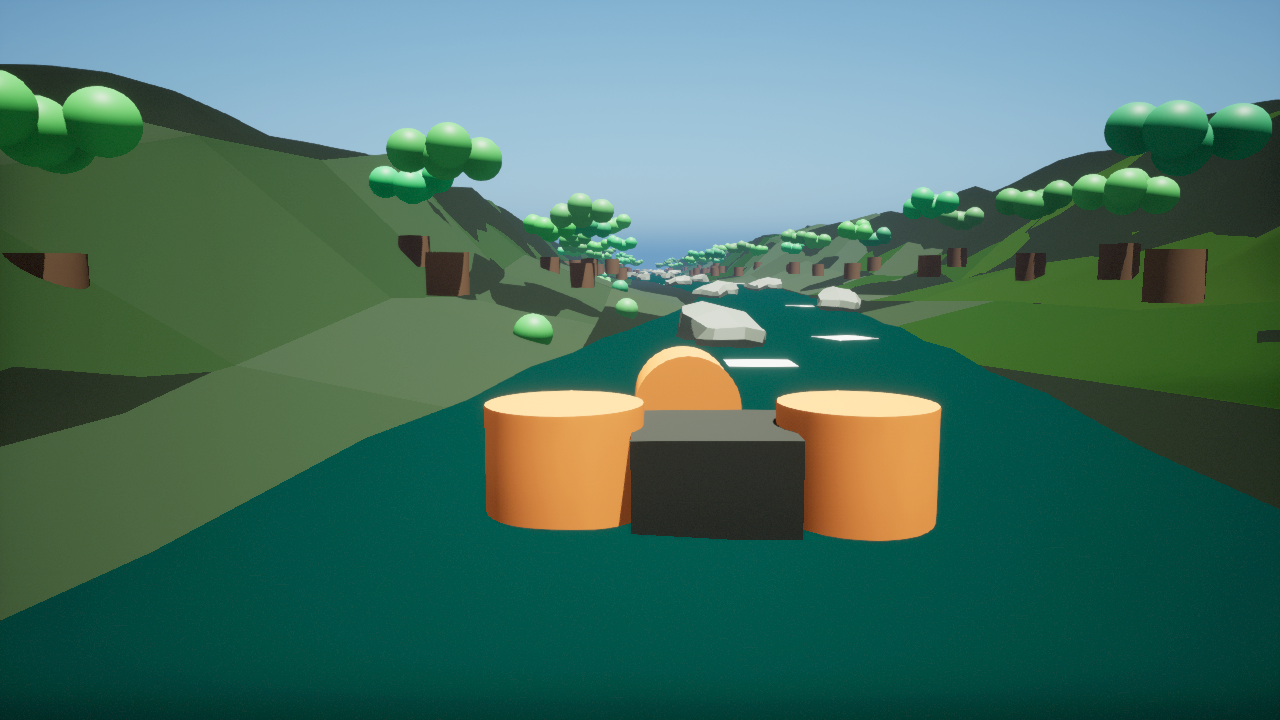
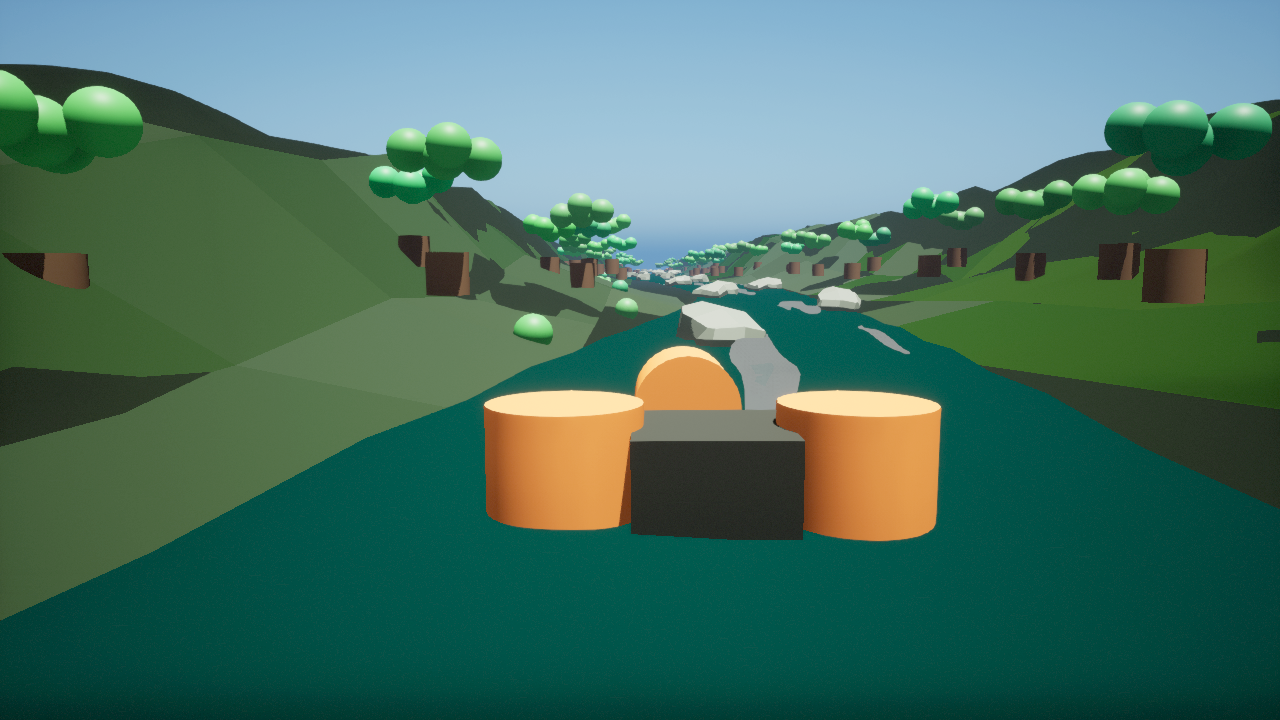
Add procedural water detail ribbons

Changed region(s): [[0.5625, 0.3972, 0.7188, 0.5806]]

diff --git a/unreal/Plugins/RaftSim/Source/RaftSimEditor/Private/RaftSimEditorModule.cpp b/unreal/Plugins/RaftSim/Source/RaftSimEditor/Private/RaftSimEditorModule.cpp
@@ -831,7 +831,6 @@ void AddPreviewRiverRibbonMesh(UWorld* World, const FRaftSimEnvironmentPreviewSp
             const float Lateral = FMath::Lerp(-Width, Width, V);
             const float Wave = FMath::Sin(X * 0.011f + Lateral * 0.015f) * (Spec.bDesertCanyon ? 2.0f : 4.5f);
             Vertices.Add(FVector(X, CenterY + Lateral, 10.0f + Wave));
-            Normals.Add(FVector::UpVector);
             UVs.Add(FVector2D(U * 18.0f, V));
         }
     }
@@ -853,6 +852,7 @@ void AddPreviewRiverRibbonMesh(UWorld* World, const FRaftSimEnvironmentPreviewSp
             Triangles.Add(D);
         }
     }
+    Normals = ComputePreviewMeshNormals(Vertices, Triangles);
 
     AddPreviewProceduralMeshActor(
         World,
@@ -864,9 +864,70 @@ void AddPreviewRiverRibbonMesh(UWorld* World, const FRaftSimEnvironmentPreviewSp
         Spec.WaterColor);
 }
 
-void AddPreviewFoamAndHydraulics(UWorld* World, const FRaftSimEnvironmentPreviewSpec& Spec, UStaticMesh* PlaneMesh)
+void AddPreviewFoamRibbon(
+    UWorld* World,
+    const FRaftSimEnvironmentPreviewSpec& Spec,
+    const FString& Label,
+    float StartX,
+    float Length,
+    float LateralOffset,
+    float Width,
+    float Phase,
+    const FLinearColor& Color)
 {
-    if (!World || !PlaneMesh)
+    if (!World)
+    {
+        return;
+    }
+
+    constexpr int32 Segments = 10;
+    TArray<FVector> Vertices;
+    TArray<FVector> Normals;
+    TArray<FVector2D> UVs;
+    TArray<int32> Triangles;
+    Vertices.Reserve((Segments + 1) * 2);
+    UVs.Reserve((Segments + 1) * 2);
+    Triangles.Reserve(Segments * 6);
+
+    for (int32 SegmentIndex = 0; SegmentIndex <= Segments; ++SegmentIndex)
+    {
+        const float T = static_cast<float>(SegmentIndex) / static_cast<float>(Segments);
+        const float X = StartX + Length * T;
+        const float RiverCenterY = GetPreviewRiverCenterY(Spec, X);
+        const float Sway = FMath::Sin(Phase + T * UE_TWO_PI) * Width * 0.32f;
+        const float Taper = FMath::Sin(T * PI);
+        const float LocalHalfWidth = FMath::Max(6.0f, Width * (0.18f + 0.62f * Taper));
+        const float CenterY = RiverCenterY + LateralOffset + Sway;
+        const float SurfaceWave = FMath::Sin(X * 0.011f + CenterY * 0.015f) * (Spec.bDesertCanyon ? 2.0f : 4.5f);
+        const float Z = 25.0f + SurfaceWave + 2.0f * FMath::Sin(Phase * 1.7f + T * PI);
+
+        Vertices.Add(FVector(X, CenterY - LocalHalfWidth, Z));
+        Vertices.Add(FVector(X, CenterY + LocalHalfWidth, Z + 0.6f));
+        UVs.Add(FVector2D(T, 0.0f));
+        UVs.Add(FVector2D(T, 1.0f));
+    }
+
+    for (int32 SegmentIndex = 0; SegmentIndex < Segments; ++SegmentIndex)
+    {
+        const int32 A = SegmentIndex * 2;
+        const int32 B = A + 1;
+        const int32 C = A + 2;
+        const int32 D = A + 3;
+        Triangles.Add(A);
+        Triangles.Add(C);
+        Triangles.Add(B);
+        Triangles.Add(B);
+        Triangles.Add(C);
+        Triangles.Add(D);
+    }
+
+    Normals = ComputePreviewMeshNormals(Vertices, Triangles);
+    AddPreviewProceduralMeshActor(World, Label, Vertices, Triangles, Normals, UVs, Color);
+}
+
+void AddPreviewFoamAndHydraulics(UWorld* World, const FRaftSimEnvironmentPreviewSpec& Spec)
+{
+    if (!World)
     {
         return;
     }
@@ -874,27 +935,40 @@ void AddPreviewFoamAndHydraulics(UWorld* World, const FRaftSimEnvironmentPreview
     for (int32 FoamIndex = 0; FoamIndex < Spec.FoamTrainCount; ++FoamIndex)
     {
         const float X = -4050.0f + static_cast<float>(FoamIndex) * (28000.0f / FMath::Max(1, Spec.FoamTrainCount));
-        const float CenterY = GetPreviewRiverCenterY(Spec, X);
         const float Offset = FMath::Sin(static_cast<float>(FoamIndex) * 1.7f) * Spec.RiverHalfWidthCm * 0.42f;
-        const float LengthScale = Spec.bDesertCanyon ? 4.0f : 3.2f;
-        AddPreviewMeshActor(
+        const float Length = Spec.bDesertCanyon ? 1420.0f : 1050.0f;
+        AddPreviewFoamRibbon(
             World,
-            PlaneMesh,
+            Spec,
             FString::Printf(TEXT("RaftSim_FoamTongue_%02d_%s"), FoamIndex, *Spec.RiverId),
-            FVector(X, CenterY + Offset, 24.0f + static_cast<float>(FoamIndex % 3)),
-            FRotator(0.0f, FMath::Sin(static_cast<float>(FoamIndex) * 0.62f) * 13.0f, 0.0f),
-            FVector(LengthScale, 0.18f + 0.04f * static_cast<float>(FoamIndex % 4), 1.0f),
+            X - Length * 0.48f,
+            Length,
+            Offset,
+            54.0f + 12.0f * static_cast<float>(FoamIndex % 3),
+            static_cast<float>(FoamIndex) * 0.83f,
             FLinearColor(0.82f, 0.90f, 0.86f));
+        AddPreviewFoamRibbon(
+            World,
+            Spec,
+            FString::Printf(TEXT("RaftSim_WaveHighlight_%02d_%s"), FoamIndex, *Spec.RiverId),
+            X - Length * 0.26f,
+            Length * 0.55f,
+            Offset * 0.55f,
+            22.0f + 5.0f * static_cast<float>(FoamIndex % 2),
+            static_cast<float>(FoamIndex) * 1.19f + 0.4f,
+            Spec.bDesertCanyon ? FLinearColor(0.78f, 0.82f, 0.76f) : FLinearColor(0.72f, 0.88f, 0.84f));
 
         if (!Spec.bDesertCanyon && FoamIndex % 3 == 0)
         {
-            AddPreviewMeshActor(
+            AddPreviewFoamRibbon(
                 World,
-                PlaneMesh,
+                Spec,
                 FString::Printf(TEXT("RaftSim_EddyLine_%02d_%s"), FoamIndex, *Spec.RiverId),
-                FVector(X + 420.0f, CenterY + Spec.RiverHalfWidthCm * 0.76f, 25.0f),
-                FRotator(0.0f, -21.0f, 0.0f),
-                FVector(2.2f, 0.08f, 1.0f),
+                X + 80.0f,
+                720.0f,
+                Spec.RiverHalfWidthCm * 0.76f,
+                18.0f,
+                static_cast<float>(FoamIndex) * 0.47f,
                 FLinearColor(0.88f, 0.94f, 0.90f));
         }
     }
@@ -1194,7 +1268,7 @@ bool BuildPreviewMapForSpec(const FRaftSimEnvironmentPreviewSpec& Spec, FString&
     AddPreviewAerialDrapeTiles(World, Spec, TerrainReliefPtr);
     AddPreviewRiverRibbonMesh(World, Spec);
     AddPreviewRaftForeground(World, Spec, CubeMesh, CylinderMesh);
-    AddPreviewFoamAndHydraulics(World, Spec, PlaneMesh);
+    AddPreviewFoamAndHydraulics(World, Spec);
 
     for (int32 BoulderIndex = 0; BoulderIndex < Spec.BoulderCount; ++BoulderIndex)
     {

diff --git a/docs/photoreal-river-environment-production-plan.md b/docs/photoreal-river-environment-production-plan.md
@@ -98,7 +98,7 @@ Initial source slice:
 - The first Colorado/Lees Ferry official source slice now exists at `physics/data/real_world/colorado_river_grand_canyon_rowing/production_source_pull_manifest.json`: USGS `09380000` and `09402500` daily discharge histories through July 4, 2026, a small USGS 3DEP GeoTIFF sample, and a small USDA/APFO NAIP aerial sample. The Colorado preview uses that NAIP sample as a source-derived visible canyon terrain overlay.
 - The Colorado preview now also uses `terrain/usgs_3dep_lees_ferry_relief_preview_512.png` as preview-only canyon bank relief in Unreal, while full Grand Canyon corridor terrain tiling, river-mile stationing, and heightfield import remain pending.
 - The first Pacuare public/global source slice now exists at `physics/data/real_world/pacuare_river_costa_rica/production_source_pull_manifest.json`: Copernicus DEM GLO-30 public COG tiles for the draft bounds, a NASA GIBS MODIS/Terra April 2, 2025 true-color preview sample selected from five cloud-screened dates, a deterministic NASA-plus-DEM preview drape, and an OpenTopography API-key gate probe. The Pacuare preview uses the derived drape as a source-derived visible rainforest terrain overlay.
-- The preview generator now keeps source provenance out of the rendered guide-seat frame and records it in JSON instead. It also uses a lit preview material, computed procedural mesh normals, terrain-conforming source drape tiles, rounded clustered canopies, and slimmer trunks. This improves depth and review readability but is still not production photoreal vegetation, rock, water, or terrain material work.
+- The preview generator now keeps source provenance out of the rendered guide-seat frame and records it in JSON instead. It also uses a lit preview material, computed procedural mesh normals, terrain-conforming source drape tiles, rounded clustered canopies, slimmer trunks, and curved procedural foam/wave/eddy-line ribbons. This improves depth and review readability but is still not production photoreal vegetation, rock, water, or terrain material work.
 - The existing default map path `/Game/RaftSim/Maps/L_RaftSimBoot` has no committed level asset yet.
 - Colorado and Pacuare still need full-corridor geospatial processing, hydrology review, guide review, and rights-cleared field/reference media.
 - South Fork has the only solver corridor package, but its terrain, imagery, and field media are still representative placeholders rather than production pulls.
@@ -113,4 +113,4 @@ Initial source slice:
 - Colorado source data: `physics/data/real_world/colorado_river_grand_canyon_rowing/production_source_pull_manifest.json` records the initial official pull; `imagery/usda_naip_lees_ferry_sample_512.png` is sampled into visible canyon terrain overlay tiles, `terrain/usgs_3dep_lees_ferry_relief_preview_512.png` is sampled into preview canyon terrain geometry, and `terrain/usgs_3dep_lees_ferry_sample_256.tif` is recorded for the next canyon heightfield-conditioning pass.
 - Pacuare River: `/Game/RaftSim/Maps/EnvironmentPreviews/L_PacuareRainforest_PhotorealPreview`, capture `docs/environment-captures/photoreal_river_previews/pacuare_guide_seat_downstream.png`.
 - Pacuare source data: `physics/data/real_world/pacuare_river_costa_rica/production_source_pull_manifest.json` records the initial public/global pull; `imagery/pacuare_nasa_gibs_2025-04-02_demshade_source_drape_512.png` is sampled into visible rainforest terrain overlay tiles, `terrain/pacuare_dem_relief_preview_512.png` is sampled into preview terrain geometry, and `terrain/copernicus_dem_glo30_N09_W084.tif` plus `terrain/copernicus_dem_glo30_N10_W084.tif` are recorded for the next gorge heightfield-conditioning pass.
-- These captures verify editor automation, camera placement, generated valley terrain meshes, terrain-conforming source drapes, lit preview materials, curved river ribbons, foam/hydraulic cue strips, boulder bars, foliage proxies, and per-river light/fog variants. They must be replaced by source-derived or rights-cleared photoreal passes before the goal is complete.
+- These captures verify editor automation, camera placement, generated valley terrain meshes, terrain-conforming source drapes, lit preview materials, curved river ribbons, procedural foam/wave/eddy-line ribbons, boulder bars, foliage proxies, and per-river light/fog variants. They must be replaced by source-derived or rights-cleared photoreal passes before the goal is complete.

diff --git a/TODO.md b/TODO.md
@@ -937,6 +937,7 @@ This milestone turns the three runnable river targets into complete, reviewable,
 - [x] Use the Pacuare Copernicus DEM relief preview in Unreal terrain generation by sampling `terrain/pacuare_dem_relief_preview_512.png` for preview-only bank/gorge height perturbation, while masking the river channel and recording the relief input in the capture manifest.
 - [x] Generate and wire USGS 3DEP relief previews for South Fork and Colorado by deriving `terrain/usgs_3dep_chili_bar_relief_preview_512.png` and `terrain/usgs_3dep_lees_ferry_relief_preview_512.png` from the official sample GeoTIFFs, sampling them into generated Unreal preview terrain, and recording the preview-only provenance manifests.
 - [x] Improve the generated Unreal preview renderer with a lit color material, computed procedural mesh normals, terrain-conforming source drape tiles, stronger preview lighting, and refreshed downstream captures for all three rivers. This adds useful depth and source-relief readability, but the screenshots remain proxy/blockout evidence rather than lifelike production art.
+- [x] Replace rectangular preview foam marks with curved procedural foam tongues, wave highlights, and eddy-line ribbons that follow each river centerline, and compute normals on the wavy river ribbon mesh so water has more in-engine surface depth. This improves visual readability but remains placeholder VFX before production water materials, spray, mist, and foam simulation.
 - [ ] Pull or attach reviewed production geospatial source data: DEM/lidar, hydrography, aerial/satellite imagery, water/vegetation masks, flow/gauge/rainfall history, protected-area/access context, and guide/media annotation references.
 - [ ] Replace proxy terrain, banks, rocks, foliage, water materials, foam/spray/mist, wetness, and lighting with source-derived or rights-cleared assets until screenshots read as lifelike without hiding hazards or rescue targets.
 - [ ] Add or license production-quality river environment asset packs/materials, or generate approved first-party procedural equivalents, for canyon walls, riverbeds, wet boulders, shore vegetation, tropical canopy, foam/spray/mist, raft foreground, and river-specific atmospheric lighting.
